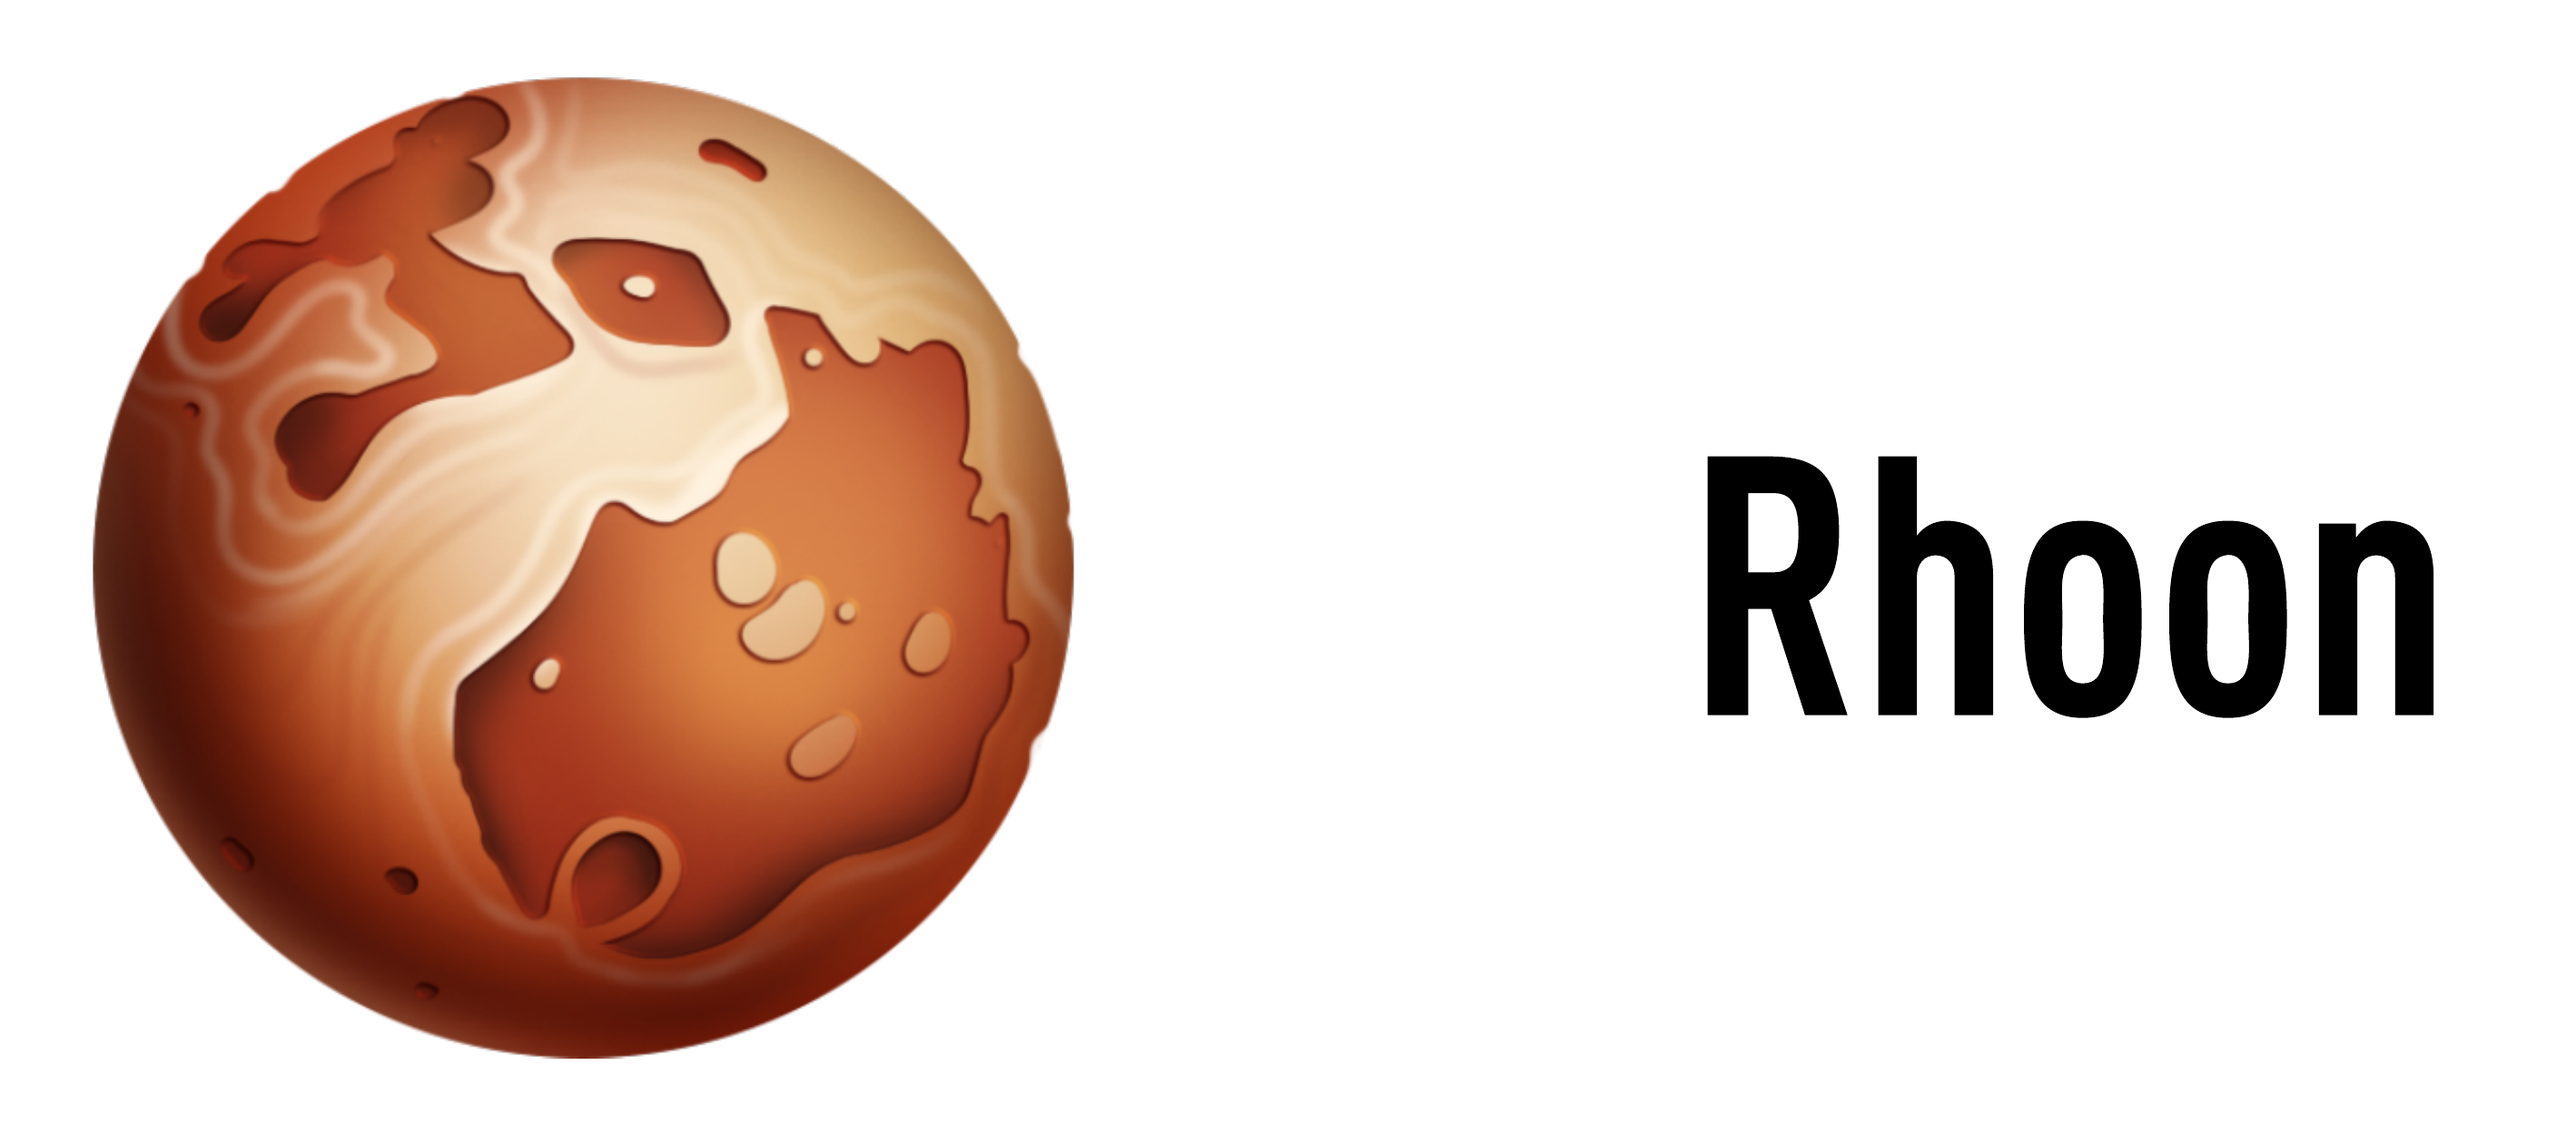
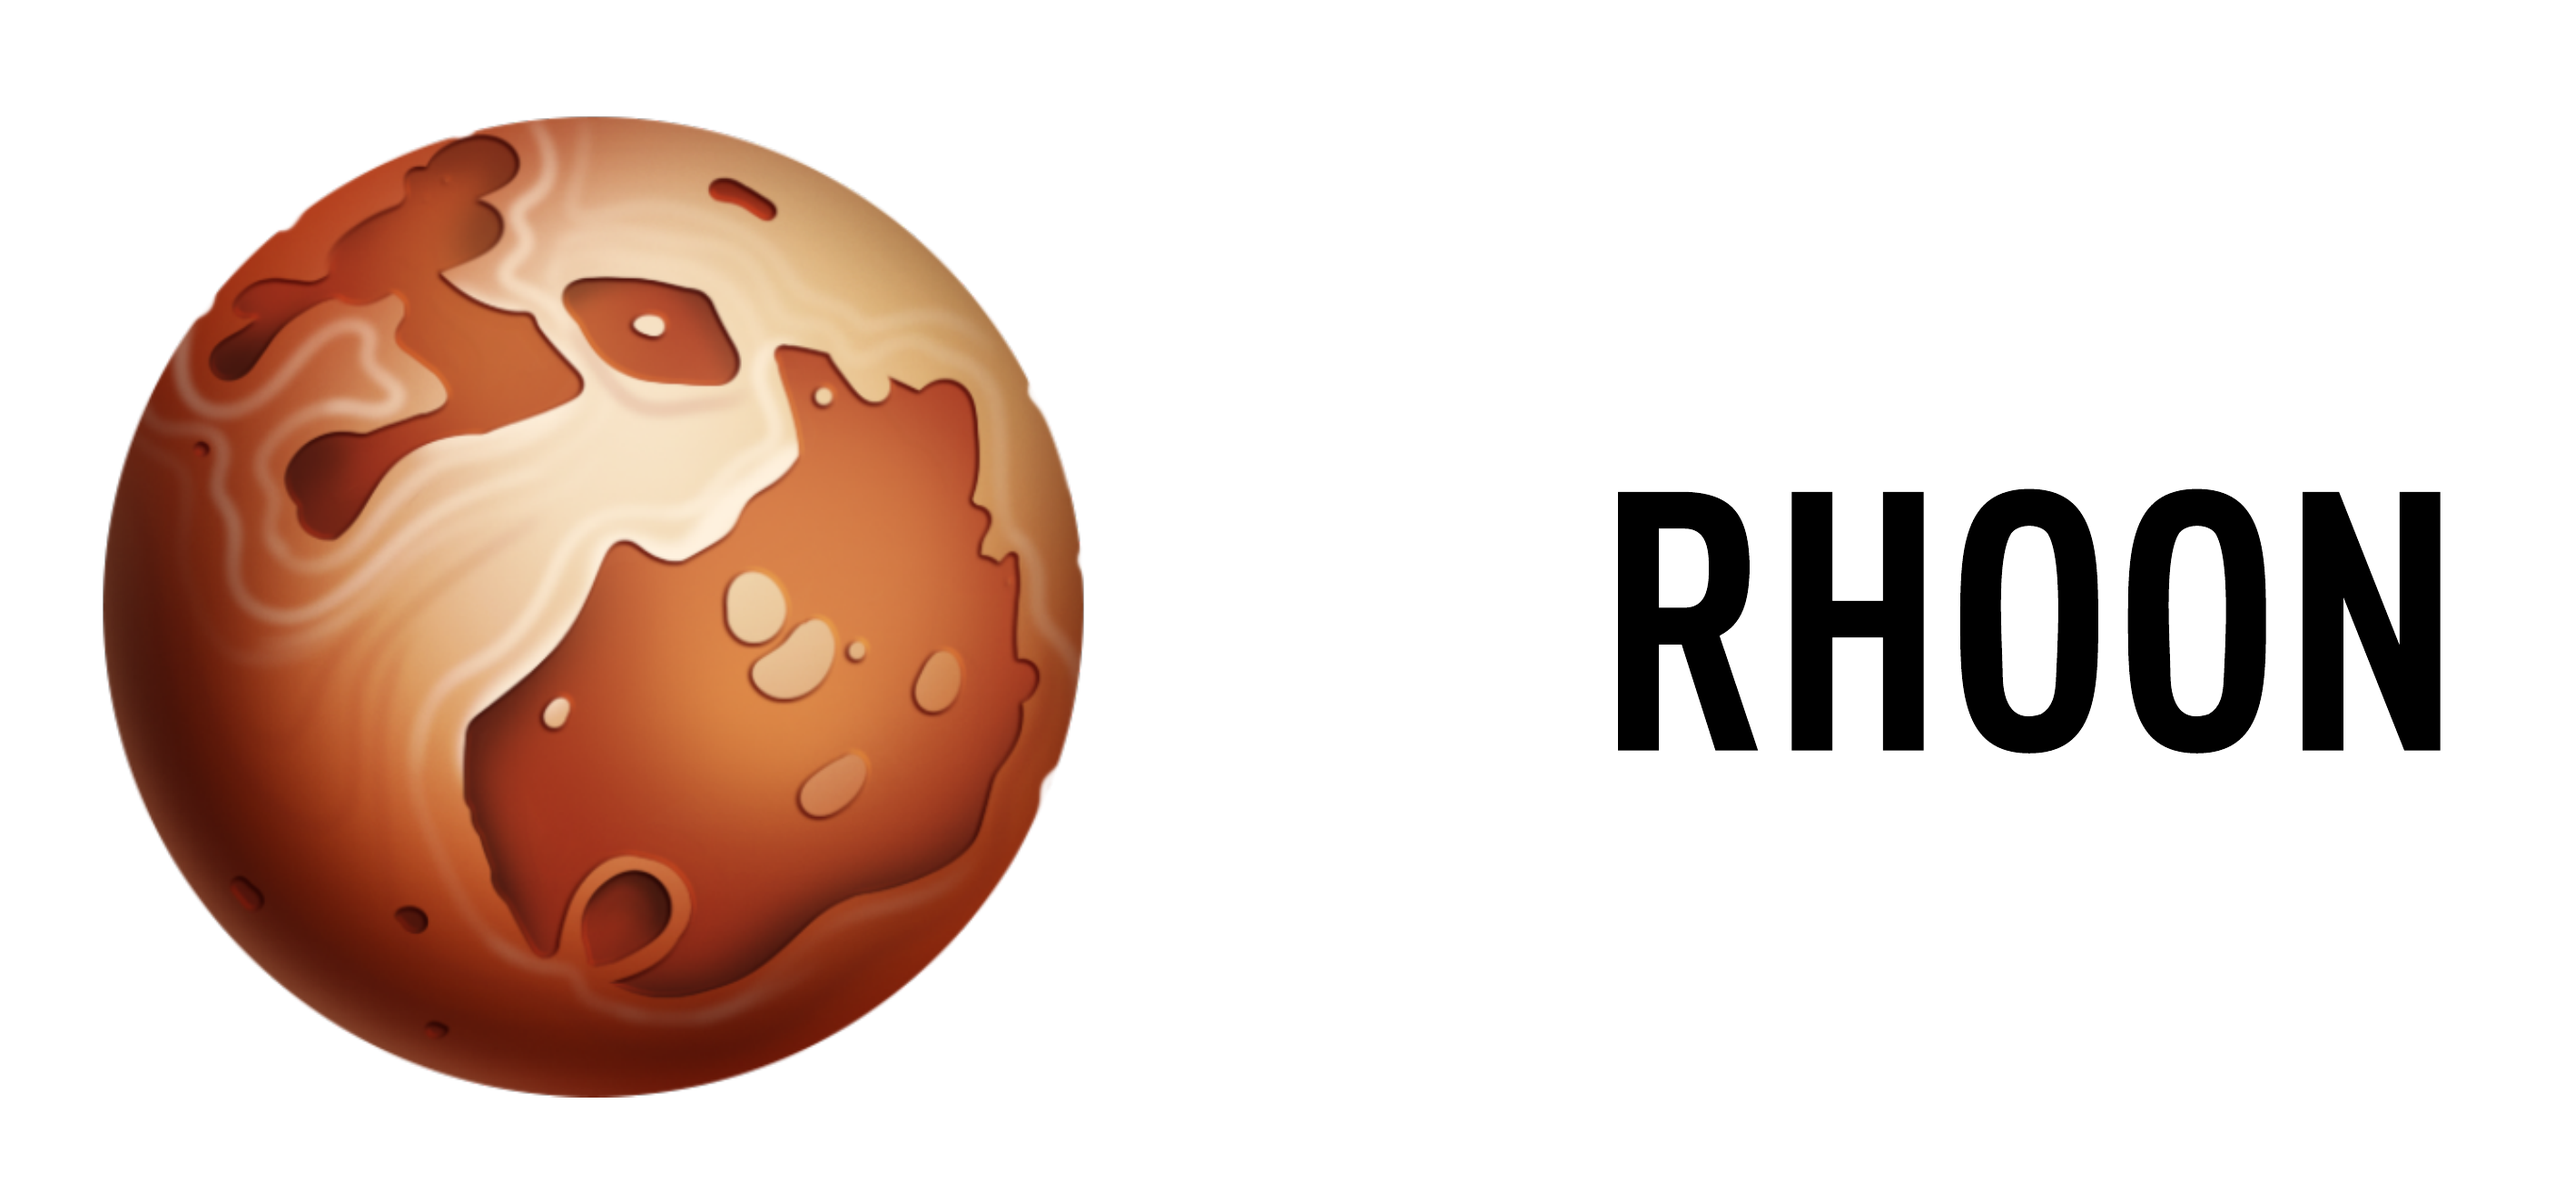
Solved some typos and replaced rhoon-title.png.

diff --git a/README.md b/README.md
@@ -29,7 +29,7 @@ Welcome to the Rhoon project. This image is part of the [k8sb](https://github.co
   * build.
     * The Docker file, and the container artifacts need must be included here.
     * Also in this directory you can find the build.sh script. Execute it if you plan to build this image. 
-    * Once the image was built, you can go to the executables directory.
+    * Once the image was build, you can go to the executables directory.
   * executables.
     * Each script under this directory wraps a useful Docker command.
     * To give a try the container:
